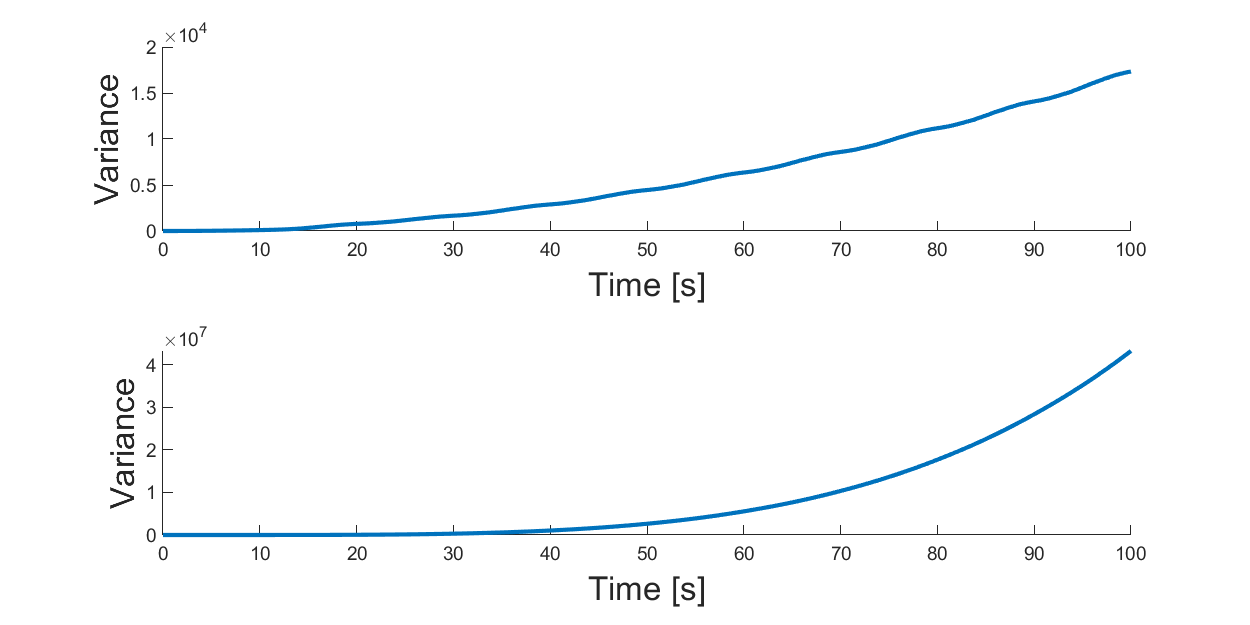
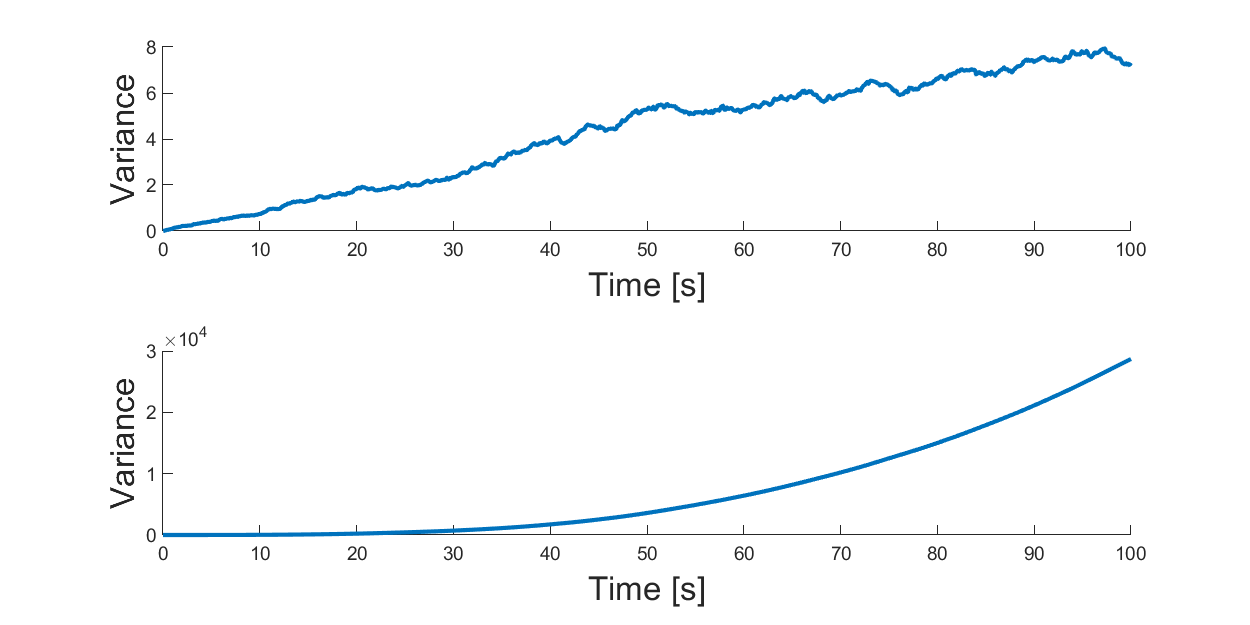
Completed q6

diff --git a/hw1.tex b/hw1.tex
@@ -93,7 +93,7 @@
     \question{Find and discuss a documented instance of a failure of guidance in a trans-oceanic flight. Be specific as to what went wrong and how this affected the mission.}
 
     \solution{ This example could be up for debate, but the Malaysia Airlines Flight 17\\
-    (\url{https://en.wikipedia.org/wiki/Malaysia_Airlines_Flight_17}) was a guidance failure that resulted in the flight being shot down over Eastern Ukranian airspace by Russian Seperatists. The flight is a Boeing 777-200ER and took off from Amsterdam and was supposed to land in Kuala Lumpur. The original flight plan proposed the airplane to fly around the conflict area and at a higher flight level, such to avoid the conflict area better. Upon nearing the conflict area, the pilots asked to stay at their current altitude of 33,000 [ft] (330 FL) and move to 20 [nm] north of their original track - ATC approved. The guidance system failed and the last contact with the airplane was found at FL 330 but almost 3.5 miles north of its proposed track, into the conflict area, where it was shot down. Autopilot and controls systems are advanced enough on these airplanes for it not to be a control problem, regardless of weather or wind conditions. My guess is that guidance system, around being updated to stay at the same flight level, reprogrammed itself to find the shortest route to the Kuala Lumpur airport.
+    (\url{https://en.wikipedia.org/wiki/Malaysia_Airlines_Flight_17}) was a guidance failure that resulted in the flight being shot down over Eastern Ukrainian airspace by Russian Separatists. The flight is a Boeing 777-200ER and took off from Amsterdam and was supposed to land in Kuala Lumpur. The original flight plan proposed the airplane to fly around the conflict area and at a higher flight level, such to avoid the conflict area better. Upon nearing the conflict area, the pilots asked to stay at their current altitude of 33,000 [ft] (330 FL) and move to 20 [nm] north of their original track - ATC approved. The guidance system failed and the last contact with the airplane was found at FL 330 but almost 3.5 miles north of its proposed track, into the conflict area, where it was shot down. Autopilot and controls systems are advanced enough on these airplanes for it not to be a control problem, regardless of weather or wind conditions. My guess is that guidance system, around being updated to stay at the same flight level, reprogrammed itself to find the shortest route to the Kuala Lumpur airport.
 
     }
     \clearpage
@@ -106,8 +106,9 @@
         Note: $N(0,1)$ indicates a normal distributed random variable with zero-mean and a variance of 1. The MATLAB command $>>randn$ generates normally distributed samples with a variance of 1.}
 
     \solution{%
-        Becuase the noise is integrated at each instance of time, it grows with time as seen in figure 3.
+        Because velocity and position have a dependency on the acceleration measurement, the noise gets inheiritly integrated at each time step, leading to a huge amount of variance at the end of the measurement period.
         \begin{figure}[!h]
+            \label{fig:3}
             \centering
             \includegraphics[width=\linewidth]{Q5.png}
         \end{figure}
@@ -117,9 +118,26 @@
     \begin{parts}
         \part{How would you estimate the bias?}
 
+        \solution{%
+            Because the body is known to be stationary, we can take the mean of the acceleration measurements. If the body was moving, computing a least squares solution could be another option.
+        }
+
         \part{Compute the 100 estimates of the bias using each set of 1000 measurements.}
 
+        \solution{%
+            From the figure below, we can see the monte-carlo simulation reveal a bias of around 3, which is the bias provided in the problem statement.
+            \begin{figure}[!h]
+                \centering
+                \includegraphics[width=\linewidth]{Q6b.png}
+            \end{figure}
+
+        }
+
         \part{What is the mean and variances of the bias estimates?}
+
+        \solution{%
+            Taking the expectation of our monte-carlo bias estimate gives us an average bias estimate of $3.003$ which is more near our set bias value. The variance of the monte-carlo simuations was $9.53\times10^{-4}$. We could lower the variance closer to 0 if we run more simulations.
+        }
     \end{parts}
     \clearpage
     \question{You set out from town \textbf{A} and head east to town \textbf{B} $120$ kilometers away. Your vehicle has an odometer that is not particular accurate (it could be off by 1-2 kilometers after 50 kilometers of driving). You carry a decent watch, which is great at keeping time over short intervals, but it has been months since you last reset it. In other words, you can measure time intervals accurately, but do not know exactly what time it is. A short into your journey, the car breaks down.}

diff --git a/q5.m b/q5.m
@@ -7,27 +7,31 @@ format shortg
 t = linspace(0,100,1000);
 b = 3;
 sigma = 1;
-mean = 0;
-[gaussianDistVector] = gaussianDistFCN([1 1],sigma,mean);
+mean_q5 = 0;
 
 a = zeros(100,length(t));
 v = zeros(100,length(t));
 p = zeros(100,length(t));
-a(1,1) = b + gaussianDistVector(1);
+
 for i = 1:100
     dt = 0.1;
-    [gaussianDistVector] = gaussianDistFCN([1 1],sigma,mean);
+    [gaussianDistVector] = gaussianDistFCN([1 1],sigma,mean_q5);
+    a(i,1) = b + gaussianDistVector;
     for k = 2:length(t)
-        a(i,k) = a(k-1) + b + gaussianDistVector;
+        [gaussianDistVector] = gaussianDistFCN([1 1],sigma,mean_q5);
+        a(i,k) = b + gaussianDistVector;
         v(i,k) = v(i,k-1) + a(i,k-1)*dt;
         p(i,k) = p(i,k-1) + v(i,k-1)*dt + 0.5*a(i,k-1)*dt*dt;
-  
+
     end
 
 end
 
 velo_var = var(v,0,1);
 pos_var = var(p,0,1);
+mean_accel = (mean(a,2));
+super_mean_accel = mean(mean_accel);
+var_mean_accel = var(mean_accel);
 
 fig1 = figure('Position',[500 500 800 400]);
 tiledlayout(2,1)
@@ -43,3 +47,10 @@ ylabel('Variance','FontSize',16)
 hold on
 plot(t,pos_var,LineWidth=2)
 saveas(fig1,'Q5.png')
+
+fig1 = figure('Position',[500 500 800 400]);
+xlabel('Simulations','FontSize',16)
+ylabel('Estimated Bias','FontSize',16)
+hold on
+plot(1:100,mean_accel)
+saveas(fig1,'Q6b.png')
